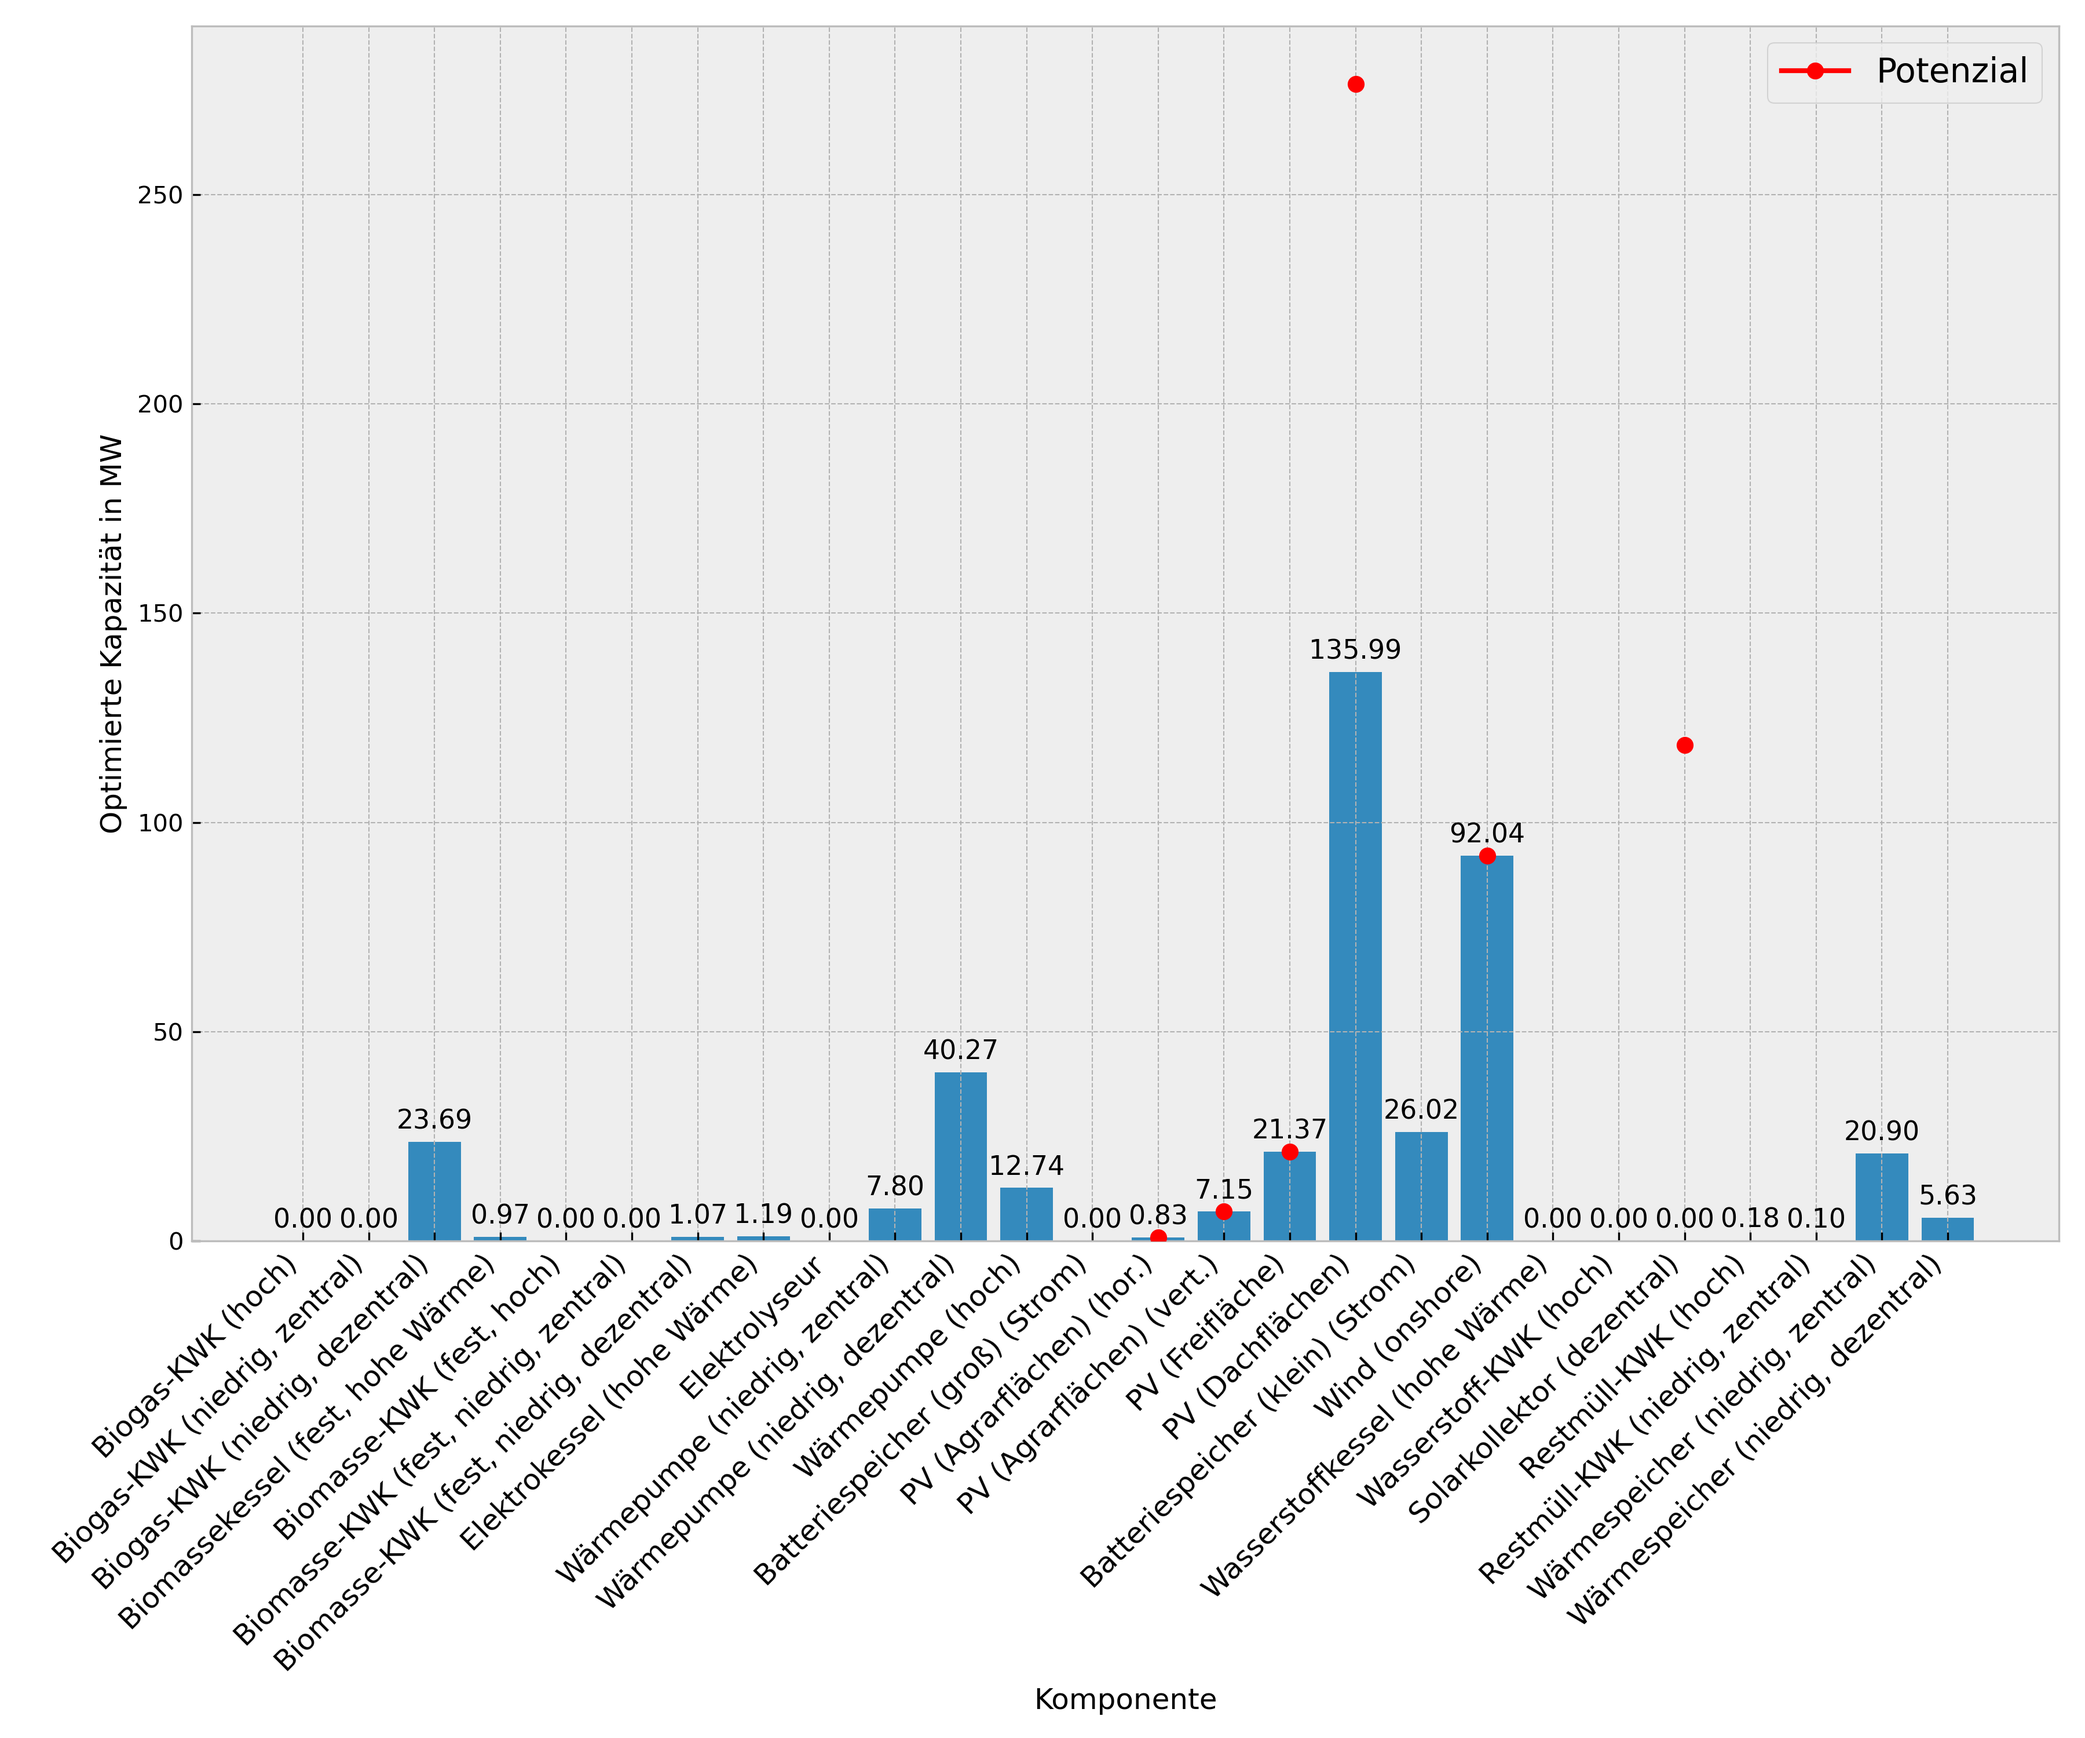
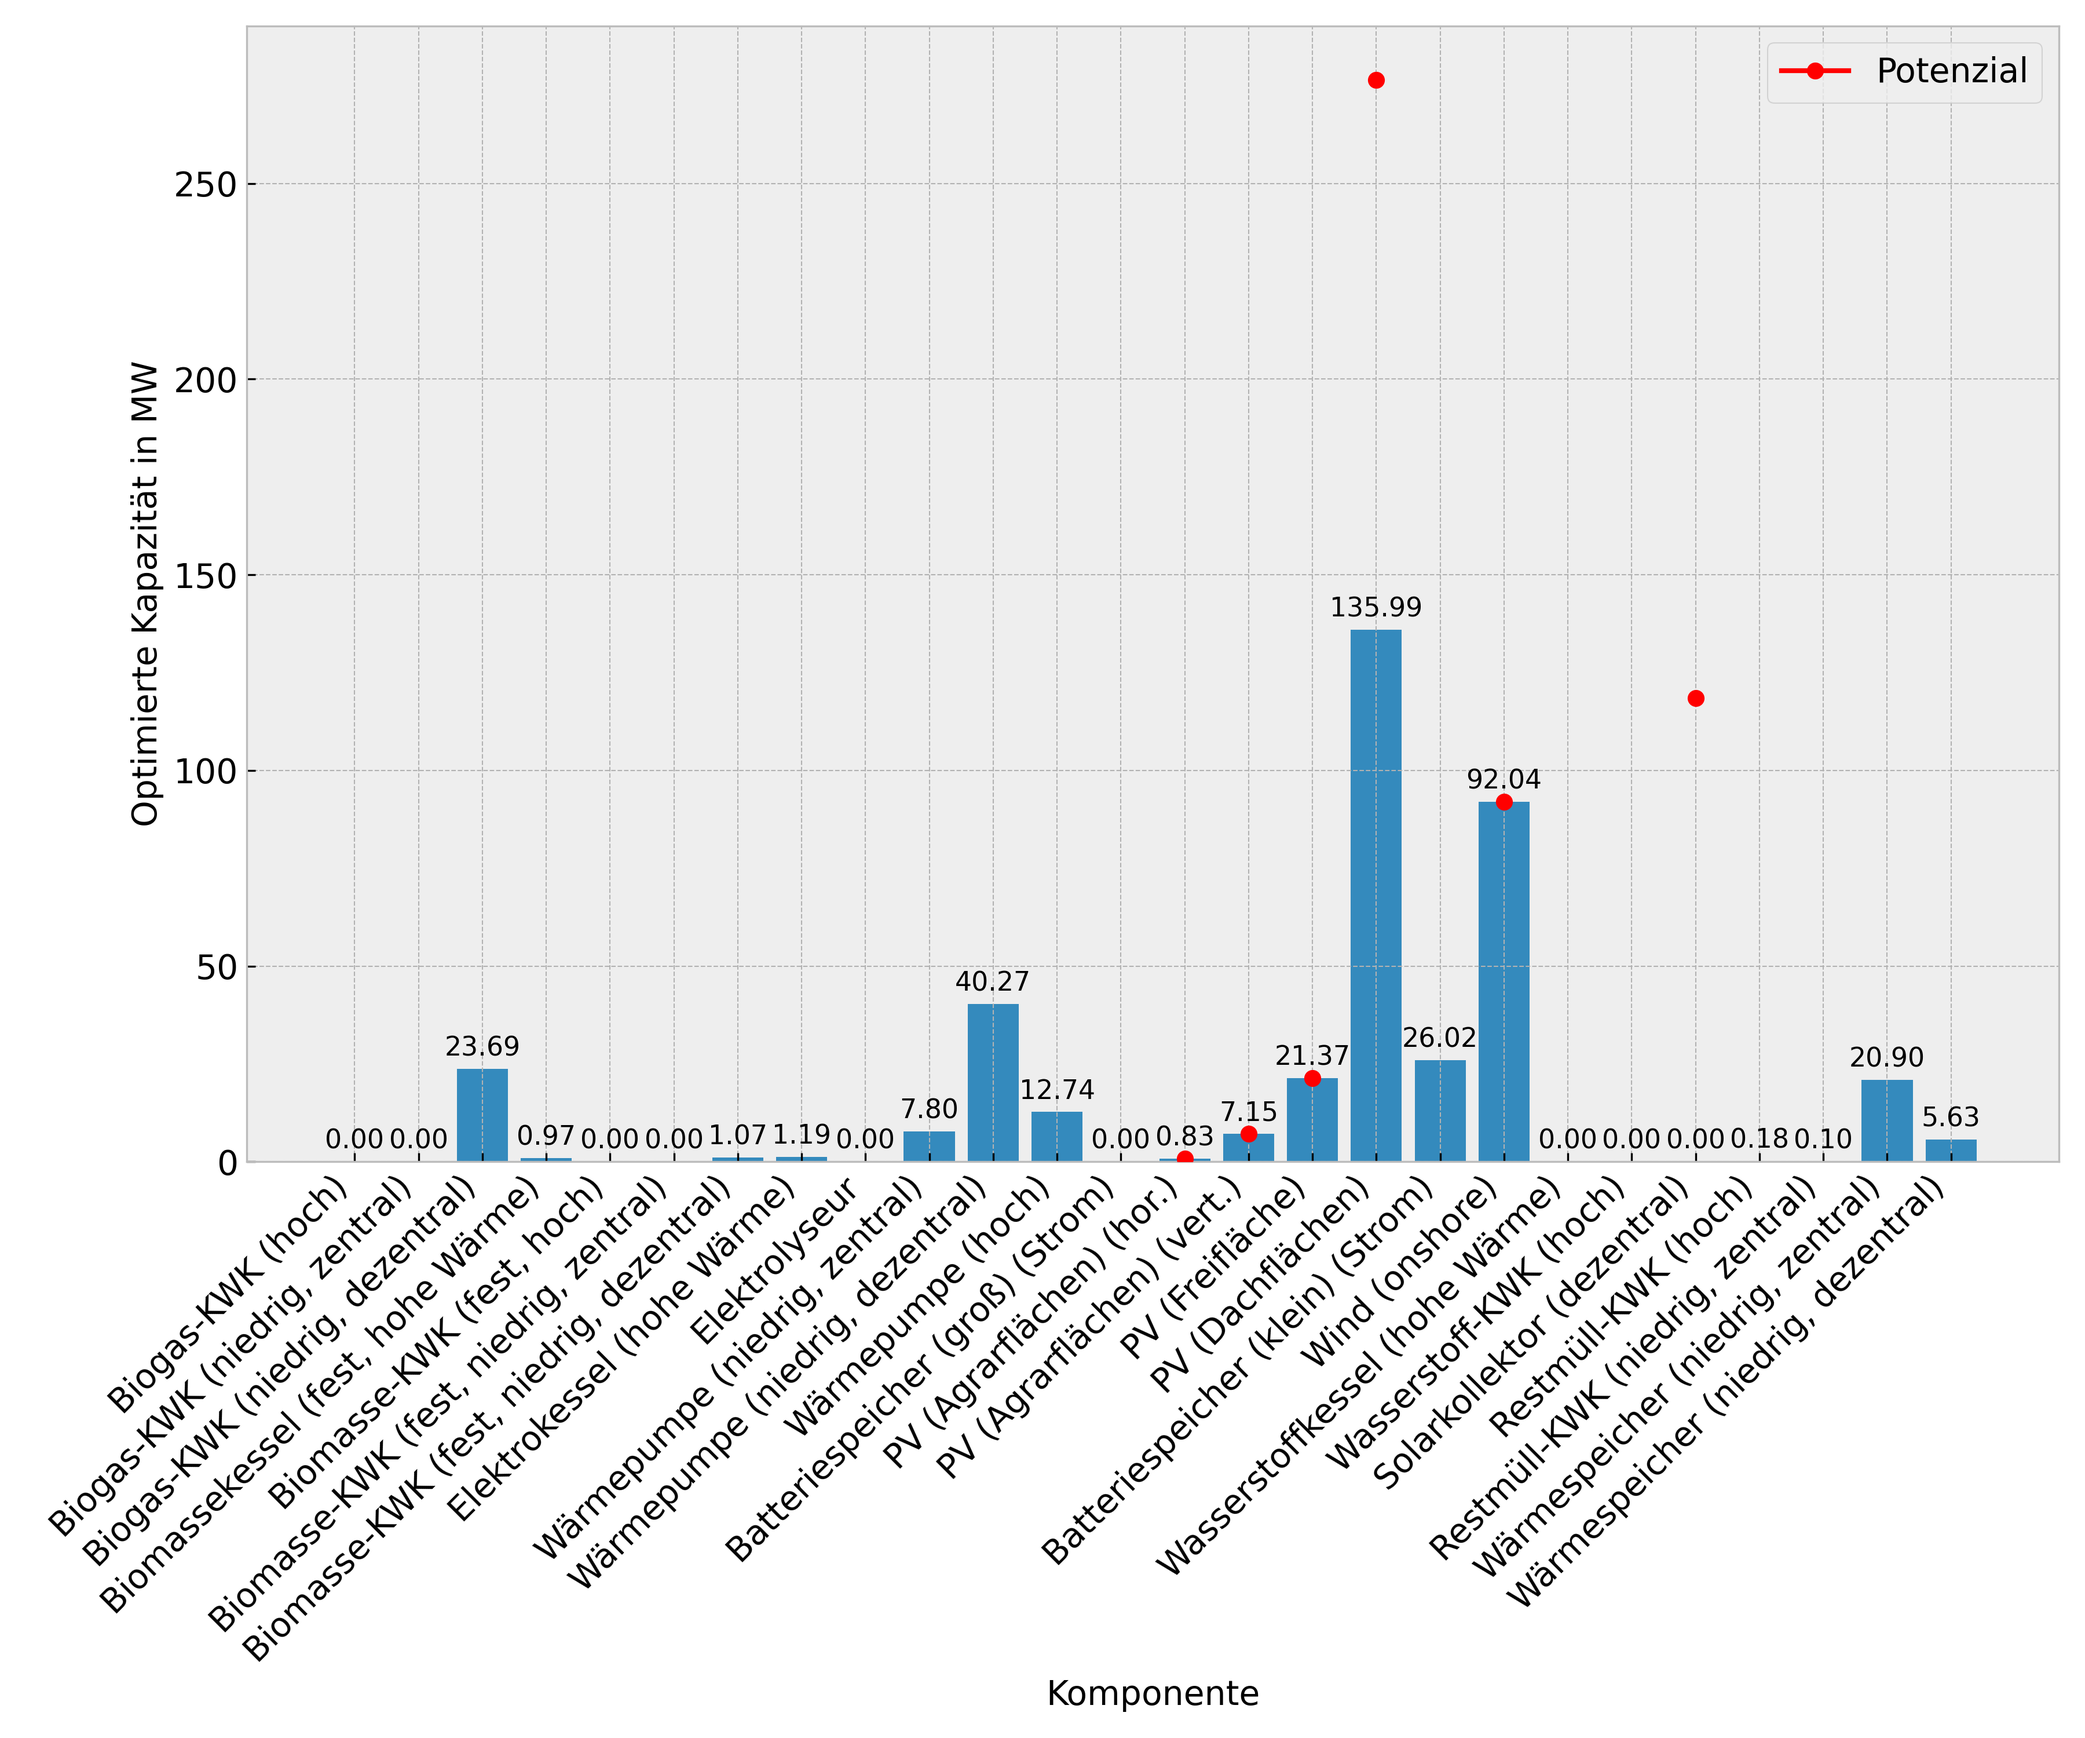
Adjust fontsizes in capacity plots 2

diff --git a/plots.py b/plots.py
@@ -46,8 +46,10 @@ def barplot_c(df,
     fig, ax = plt.subplots(figsize=(12, 10))
     bars = ax.bar(df["name"], df["var_value"])
 
-    ax.set_ylabel(unit)
-    ax.set_xlabel("Komponente")
+    ax.set_ylabel(unit,
+                  fontsize=14)
+    ax.set_xlabel("Komponente",
+                  fontsize=14)
     ax.set_title(title)
 
     # Annotate bar heights
@@ -86,7 +88,8 @@ def barplot_c(df,
     if potentials_set:
         ax.legend(["Potenzial"], loc="upper right", fontsize=14)
 
-    plt.xticks(rotation=45, ha="right", fontsize=12)
+    plt.xticks(rotation=45, ha="right", fontsize=14)
+    plt.yticks(fontsize=14)
     plt.tight_layout()
 
     if filename:
